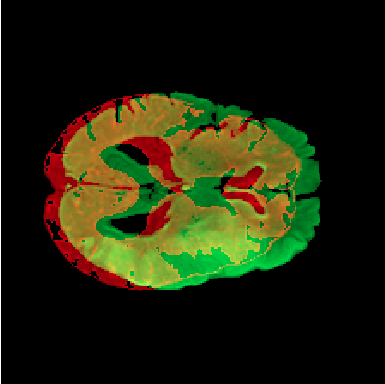
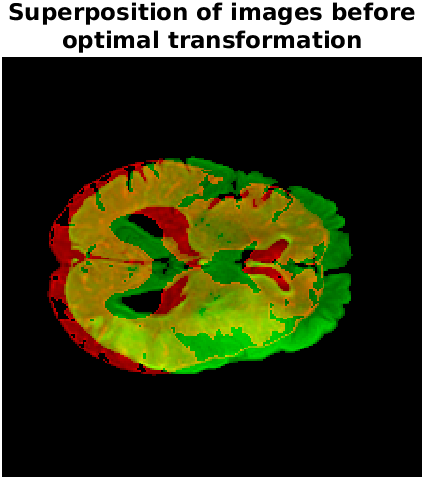
updated final part 3 and readme first version of Q.2.6

diff --git a/code/final.m b/code/final.m
@@ -32,7 +32,7 @@ saveas(gcf, "../output/cleaned_images.png");
 
 
 %% 2. Rigid registration
-
+%{
 %% 2.1 First, we grayscale the images
 % The range of the cleaned images is not between 0 and 256 so we have to
 % rescale them
@@ -96,7 +96,7 @@ for tx=tmin:tstep:tmax
 end
 
 %% 2.6 Comments of  results
-
+%}
 %% Test rigid_registration function
 [simcrit, tx_opt, ty_opt, r_opt, Image_diff_opt] = rigid_registration(Image_diff_clean,Image_flair_clean, mask_diff, mask_flair);
 
@@ -114,7 +114,7 @@ saveas(gcf, "../output/rigid_transformation_result.png");
 %% Display results
 C = imfuse(Image_diff_opt,Image_flair_clean,'falsecolor','Scaling','joint','ColorChannels',[1 2 0]);
 
-h1=figure(1);
+h1=figure();
 imshow(C),title({'Superposition of images after optimal transformation', '(-10,10,1,-2,2,0.1,SE)'});
 set(h1,'Position',[100, 100, 500, 400])
 
@@ -124,47 +124,22 @@ saveas(gcf, "../output/rigid_transformation_result_superposed.png");
 
 %% 3 - Point set registration
 
-%%
-clear;
-clc;
-%%
+nb_points=5;
+[s, tx_opt, ty_opt, r_opt, Image_diff_opt_PS] = point_set_registration(Image_diff_clean,Image_flair_clean,nb_points);
 
-Im_diff = niftiread("DIFFUSION.nii");
-Im_flair = niftiread("FLAIR.nii");
+disp(['The optimal x translation is : ', num2str(tx_opt)]);
+disp(['The optimal y translation is : ', num2str(ty_opt)]);
+disp(['The optimal r rotation is : ', num2str(r_opt)]);
 
-%% 
-[ID, IF, mask_diff, mask_flair]=preprocess(Im_diff(:,:,8), Im_flair(:,:,8));
-[pts_diff, pts_flair]=readPoints(ID,IF,3);
+h1=figure();
+C = imfuse(Image_diff_opt_PS,IF,'falsecolor','Scaling','joint','ColorChannels',[1 2 0]);
+imshow(C),title({'Superposition of images after', 'optimal transformation', '(-10,10,1,-2,2,0.1)'});
+set(h1,'Position',[100, 100, 500, 400])
+h2=figure();
+C2=imfuse(ID,IF,'falsecolor','Scaling','joint','ColorChannels',[1 2 0]);
+imshow(C2),title({'Superposition of images before', 'optimal transformation'});
+set(h2,'Position',[100, 100, 500, 400])
 
-%%
-tmin=-10;
-tmax=10;
-tstep=2;
-rmin=-1;
-rmax=1;
-rstep=0.2;
-s=0;
-L = 3;
-for i=1:L
-   s=s+(ID(round(pts_diff(1,i)),round(pts_diff(1,i)))-IF(round(pts_flair(1,i)),round(pts_flair(1,i))))^2; 
-end
-p_opt=[0 0 0];
-for tx=tmin:tstep:tmax
-    for ty=tmin:tstep:tmax
-        for r=rmin:rstep:rmax
-            ID_temp=imtranslate(ID,[tx,ty]);
-            ID_temp=imrotate(ID,r, 'crop');
-            stemp=0;
-            for i=1:L
-               stemp=stemp+(ID_temp(round(pts_diff(1,i)),round(pts_diff(1,i)))-IF(round(pts_flair(1,i)),round(pts_flair(1,i))))^2; 
-            end
-            if stemp<s
-                s=stemp;
-                p_opt=[tx ty r];
-            end
-        end
-    end
-end
 
 
 %% 5. Additional similarity metric - mutual information

diff --git a/code/Test_part3.m b/code/Test_part3.m
@@ -10,12 +10,14 @@ Im_flair = niftiread("FLAIR.nii");
 [ID, IF, mask_diff, mask_flair]=preprocess(Im_diff(:,:,8), Im_flair(:,:,8));
 [s, tx_opt, ty_opt, r_opt, Image_diff_opt] = point_set_registration(ID,IF,3);    
 
-figure;
+h1=figure();
 C = imfuse(Image_diff_opt,IF,'falsecolor','Scaling','joint','ColorChannels',[1 2 0]);
-imshow(C);
-figure;
+imshow(C),title({'Superposition of images after', 'optimal transformation', '(-10,10,1,-2,2,0.1)'});
+set(h1,'Position',[100, 100, 500, 400])
+h2=figure();
 C2=imfuse(ID,IF,'falsecolor','Scaling','joint','ColorChannels',[1 2 0]);
-imshow(C2);
+imshow(C2),title({'Superposition of images before', 'optimal transformation'});
+set(h2,'Position',[100, 100, 500, 400])
 
 %%
 %{
